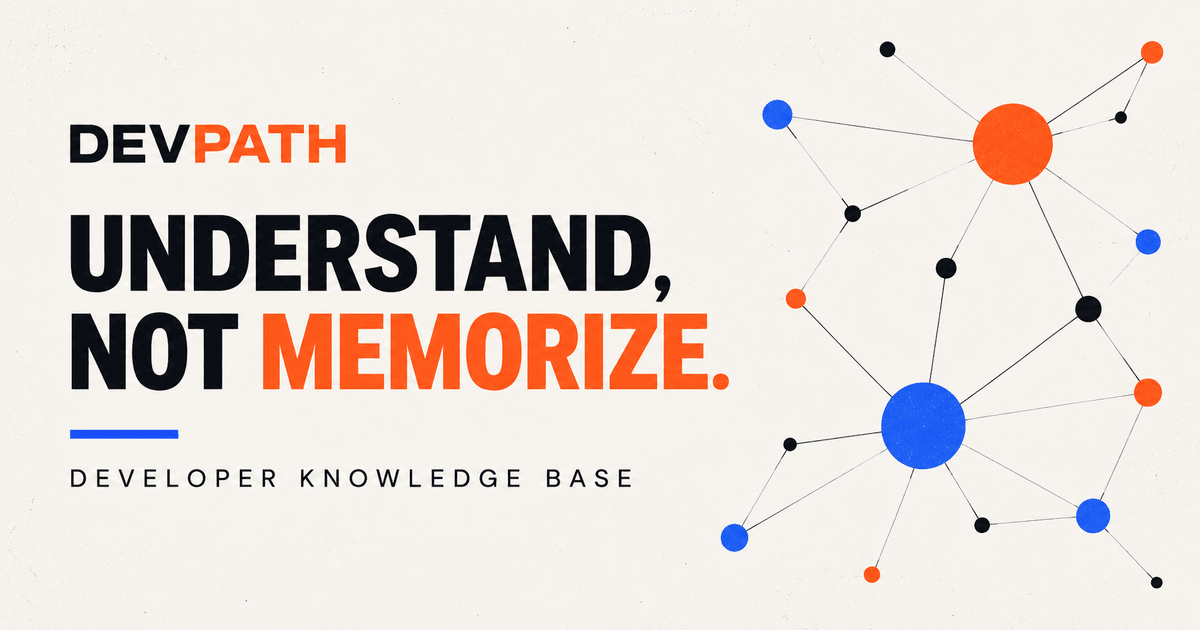
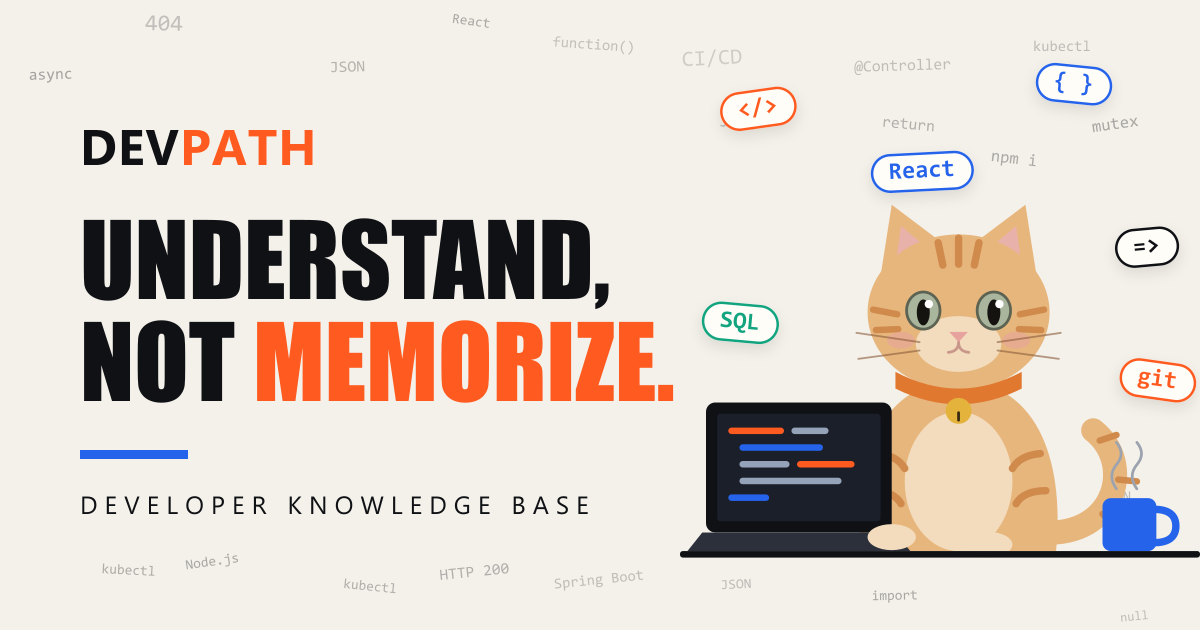
update

diff --git a/src/app/layout.tsx b/src/app/layout.tsx
@@ -37,7 +37,7 @@ export const metadata: Metadata = {
     siteName,
     title: "DevPath — Developer Knowledge Base",
     description: siteDescription,
-    images: [{ url: "/opengraph-image.png", width: 1200, height: 630, alt: "DevPath — Understand, not memorize." }],
+    images: [{ url: "/opengraph-image.png", width: 1200, height: 630, alt: "DevPath — Understand, not memorize. แมวลาเต้นั่งเขียนโค้ด" }],
   },
   twitter: {
     card: "summary_large_image",
